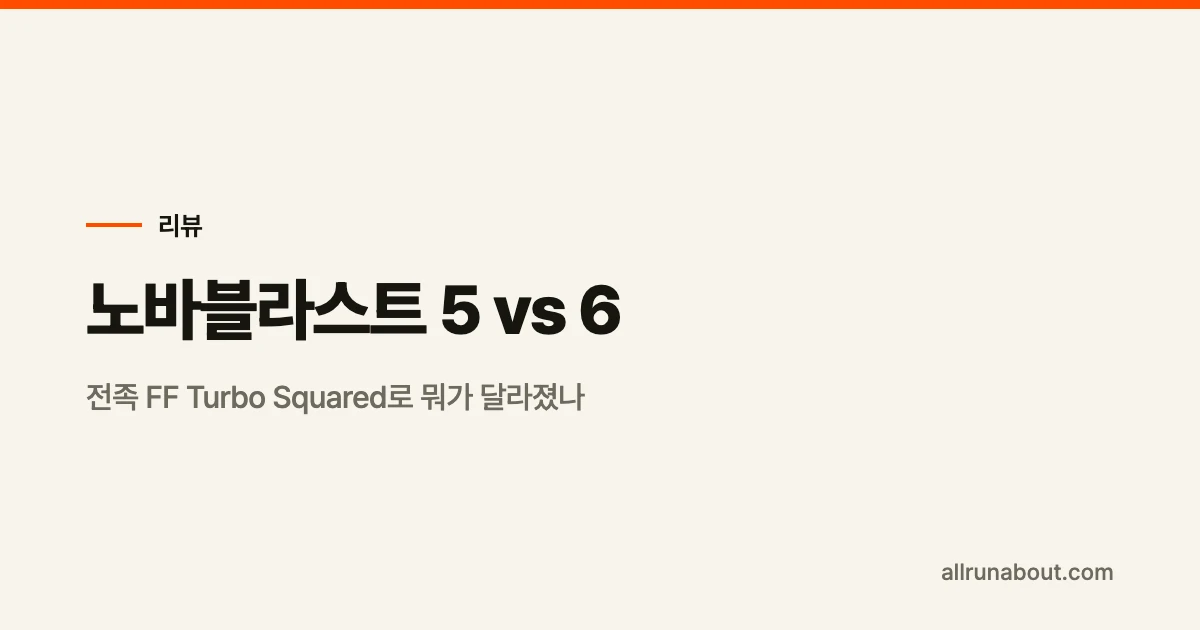
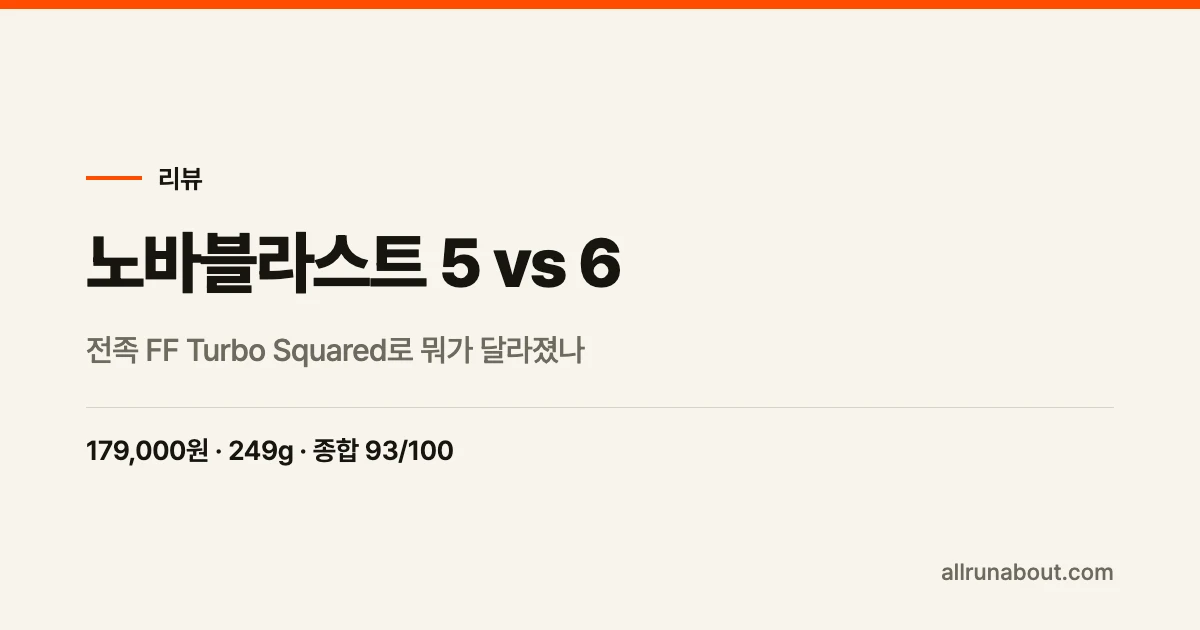
feat(blog): 썸네일에 데이터 한 줄 복원 + 카드 썸네일 경계
Task 3의 10장을 그리드에 놓고 보니 종이톤 배경(#F7F4ED)이 카드·페이지
배경과 거의 같아 썸네일이 빈 공간처럼 읽혔고, 제목이 카드 <h3>와
중복됐다. 규칙선 + 데이터 한 줄(.data)을 템플릿에 되살리고 카드
썸네일 wrapper에 border-b를 더해 경계를 만들었다.

data 값은 자동 파생하지 않고 OVERRIDES로만 채운다(deriveCopy는 항상
''). 11편 중 9편은 본문/신발 DB에서 검증 가능한 실측치로 채웠고,
2026-mudo-run-gyeongju는 접수 정보가 전부 미발표라 의도적으로 비웠다
(규칙선까지 통째로 사라짐).

diff --git a/scripts/thumbnail/copy.ts b/scripts/thumbnail/copy.ts
@@ -6,7 +6,7 @@
  * 파싱이 어색한 글은 OVERRIDES 로 손으로 고친다 — 자동 파생은 초안일 뿐이다.
  */
 
-export type ThumbCopy = { kicker: string; title: string; subtitle: string };
+export type ThumbCopy = { kicker: string; title: string; subtitle: string; data: string };
 
 const CATEGORY_LABELS: Record<string, string> = {
   guide: '가이드',
@@ -30,6 +30,7 @@ export function deriveCopy(post: { title: string; category: string }): ThumbCopy
     kicker: CATEGORY_LABELS[post.category] ?? '',
     title: head,
     subtitle: rest,
+    data: '',
   };
 }
 
@@ -42,11 +43,60 @@ export const OVERRIDES: Record<string, Partial<ThumbCopy>> = {
   // 자동 파생 부제 "세대 비교"는 정보가 없다. 다음 조각(변경점 핵심)으로 교체.
   'asics-novablast-5-vs-6-comparison-2026': {
     subtitle: '전족 FF Turbo Squared로 뭐가 달라졌나',
+    // 출처: posts/2026-07.ts 본문 표 — 가격 179,000원(line 3612), 무게 249g 실측(line 3604),
+    // RunRepeat 종합 93/100(line 3644). 셋 다 제목·부제에 없는 실측치.
+    data: '179,000원 · 249g · 종합 93/100',
   },
   // 원제목 "... | 7/1 출시 — 폼·스택 그대로, 어퍼만 바뀐 신형 살 이유 있나"
   // 자동 파생 부제 "7/1 출시"는 출시일이 이미 지나(오늘 2026-08-02) 낡은 정보다.
   // 다음 조각(비교 글의 실제 결론)으로 교체.
   'hoka-clifton-11-vs-10-comparison': {
     subtitle: '폼·스택 그대로, 어퍼만 바뀐 신형 살 이유 있나',
+    // 출처: posts/2026-06.ts 본문 표 — 무게 공식 280g·핸즈온 실측 258g(line 1241),
+    // 한국 정가 199,000원(추정, line 1246). 출시 전 신상이라 실측·추정을 구분해 표기.
+    data: '공식 280g·실측 258g · 199,000원(추정)',
   },
+  // 출처: posts/2026-07.ts 본문 표 — 가격 $165(line 3509), 무게 296g(+16g, line 3512),
+  // Believe in the Run Tier B(line 3516/3527). 제목엔 없는 실측·평가치.
+  'hoka-clifton-pro-preview-2026': {
+    data: '$165 · 296g(+16g) · Tier B',
+  },
+  // 출처: posts/2026-06.ts 본문 — 무게 298g(line 9302), 실측 힐 스택 36.8mm(line 9303),
+  // SA(충격흡수) 132(line 9304). 신발 DB(shoes/asics/asics-gel-kayano-33.ts)의
+  // weight:298, stackHeight.heel(detailedSpecs 36.8mm)와 대조 일치 확인.
+  // 본문의 "209,000원"은 DB price(199000)와 불일치해 가격은 데이터 줄에서 제외.
+  'asics-gel-kayano-33-review': {
+    data: '298g · 힐 36.8mm · SA 132',
+  },
+  // 출처: posts/2026-05.ts 본문 표 — 힐 SA 125→131(line 4888), 힐 스택 +2.4mm(line 4884).
+  // 제목은 가격(1만원 차이)만 말하므로 스펙 변화로 보완.
+  'nike-pegasus-41-vs-42-comparison': {
+    data: '힐 SA 125→131 · 스택 +2.4mm',
+  },
+  // 출처: posts/2026-06.ts 본문 표 — 스택 힐/전족 47/42mm(line 10792), 무게 220~246g(line 10791),
+  // 중국 공식가 CNY 599(line 10805).
+  'li-ning-red-hare-9-ultra-budget-supertrainer': {
+    data: '스택 47/42mm · 220~246g · CNY 599',
+  },
+  // 출처: posts/2026-06.ts 본문 표 — 3종 직구가(line 7655~7657): 울트라 ~15만, 프로 ~14만, 베이스 ~9.5만원.
+  'li-ning-red-hare-9-lineup-2026': {
+    data: '울트라 15만·프로 14만·베이스 9.5만원',
+  },
+  // 출처: posts/2026-05.ts 본문 표 — 무게 v14 295g/v15 330g(line 3072), 드롭 v14 9mm/v15 6mm(line 3075).
+  'new-balance-860-v14-vs-v15-comparison': {
+    data: 'v14 295g·9mm / v15 330g·6mm',
+  },
+  // 출처: posts/2026-05.ts stat-grid — 무게 286g(line 10740), 힐 스택 36mm(line 10745);
+  // 본문 표 SA 131(line 10792). 제목의 "16만원"과 중복을 피해 가격 대신 스펙 수치로 구성.
+  'nike-pegasus-42-review': {
+    data: '286g · 힐 스택 36mm · SA 131',
+  },
+  // 출처: posts/2026-05.ts 본문 — 드롭 4-6mm(line 7003), 2026년 11월 시카고 마라톤 직전 예상(line 7009),
+  // 글로벌 정가 $285~330 예상(line 7010).
+  '2026-nike-alphafly-4-prototype': {
+    data: '드롭 4-6mm · 11월 시카고 직전 · $285~330',
+  },
+  // '2026-mudo-run-gyeongju' 는 의도적으로 미등록 — 본문이 "종목·참가비·접수 일정·접수처
+  // 모두 미발표"라고 명시한다(posts/2026-07.ts line 2603). 검증 가능한 수치가 없어 data 를
+  // 비운다(기본값 '' 유지). 규칙선·데이터 줄이 통째로 사라진다.
 };

diff --git a/src/components/blog/blog-card.tsx b/src/components/blog/blog-card.tsx
@@ -20,7 +20,7 @@ export function BlogCard({ post }: BlogCardProps) {
     <Link href={`/blog/${post.slug}`} className="group block">
       <article className="flex h-full flex-col overflow-hidden rounded-[4px] border border-border bg-background transition-colors duration-200 hover:bg-[var(--accent-soft)]">
         {thumbnail ? (
-          <div className="relative aspect-[1200/630] overflow-hidden bg-gray-100">
+          <div className="relative aspect-[1200/630] overflow-hidden border-b border-border bg-gray-100">
             <div className="absolute inset-x-0 top-0 z-10 h-1.5 bg-[var(--accent)]" />
             <Image
               src={img(thumbnail)}
@@ -33,7 +33,7 @@ export function BlogCard({ post }: BlogCardProps) {
             />
           </div>
         ) : (
-          <div className="flex aspect-[1200/630] items-center justify-center bg-gradient-to-br from-stone-100 to-stone-200">
+          <div className="flex aspect-[1200/630] items-center justify-center border-b border-border bg-gradient-to-br from-stone-100 to-stone-200">
             <span className="text-4xl text-stone-400">
               {categoryLabels[post.category]}
             </span>

diff --git a/scripts/thumbnail/card.css b/scripts/thumbnail/card.css
@@ -83,6 +83,24 @@ body {
 /* 부제가 빈 글에서는 자리를 차지하지 않는다 */
 .subtitle:empty { display: none; }
 
+/* 데이터 한 줄 — 제목이 말하지 않는 것을 담는 자리.
+   3단으로 줄였더니 카드에서 썸네일이 제목만 반복하게 돼 한 줄만 되살렸다.
+   값이 없으면 규칙선까지 통째로 사라진다(빈 줄이 남으면 레이아웃이 어색하다). */
+.data {
+  margin-top: 34px;
+  padding-top: 26px;
+  border-top: 1px solid #D9D4C8;    /* --border */
+  font-size: 27px;
+  font-weight: 600;
+  letter-spacing: -0.012em;
+  color: #17150F;                   /* --primary — 수치는 잉크로, 부제보다 진하게 */
+  word-break: keep-all;
+  white-space: nowrap;
+  overflow: hidden;
+  text-overflow: ellipsis;
+}
+.data:empty { display: none; }
+
 .footer {
   position: absolute;
   left: 86px; right: 86px; bottom: 44px;

diff --git a/src/lib/__tests__/thumbnail-copy.test.ts b/src/lib/__tests__/thumbnail-copy.test.ts
@@ -46,4 +46,8 @@ describe('deriveCopy', () => {
   it('부제가 없으면 빈 문자열이다 (템플릿이 줄을 비운다)', () => {
     expect(deriveCopy({ title: '평발 러닝화 고르는 법', category: 'guide' }).subtitle).toBe('');
   });
+
+  it('data 는 자동 파생하지 않는다 — 항상 빈 문자열로 시작한다', () => {
+    expect(deriveCopy({ title: '아식스 젤 카야노 33 리뷰 | 258g', category: 'review' }).data).toBe('');
+  });
 });

diff --git a/scripts/thumbnail/render.ts b/scripts/thumbnail/render.ts
@@ -77,6 +77,7 @@ function html(copy: ThumbCopy): string {
 <p class="kicker">${esc(copy.kicker)}</p>
 <h1 class="title">${esc(copy.title)}</h1>
 <p class="subtitle">${esc(copy.subtitle)}</p>
+<p class="data">${esc(copy.data)}</p>
 <div class="footer">allrunabout.com</div>
 </body></html>`;
 }
